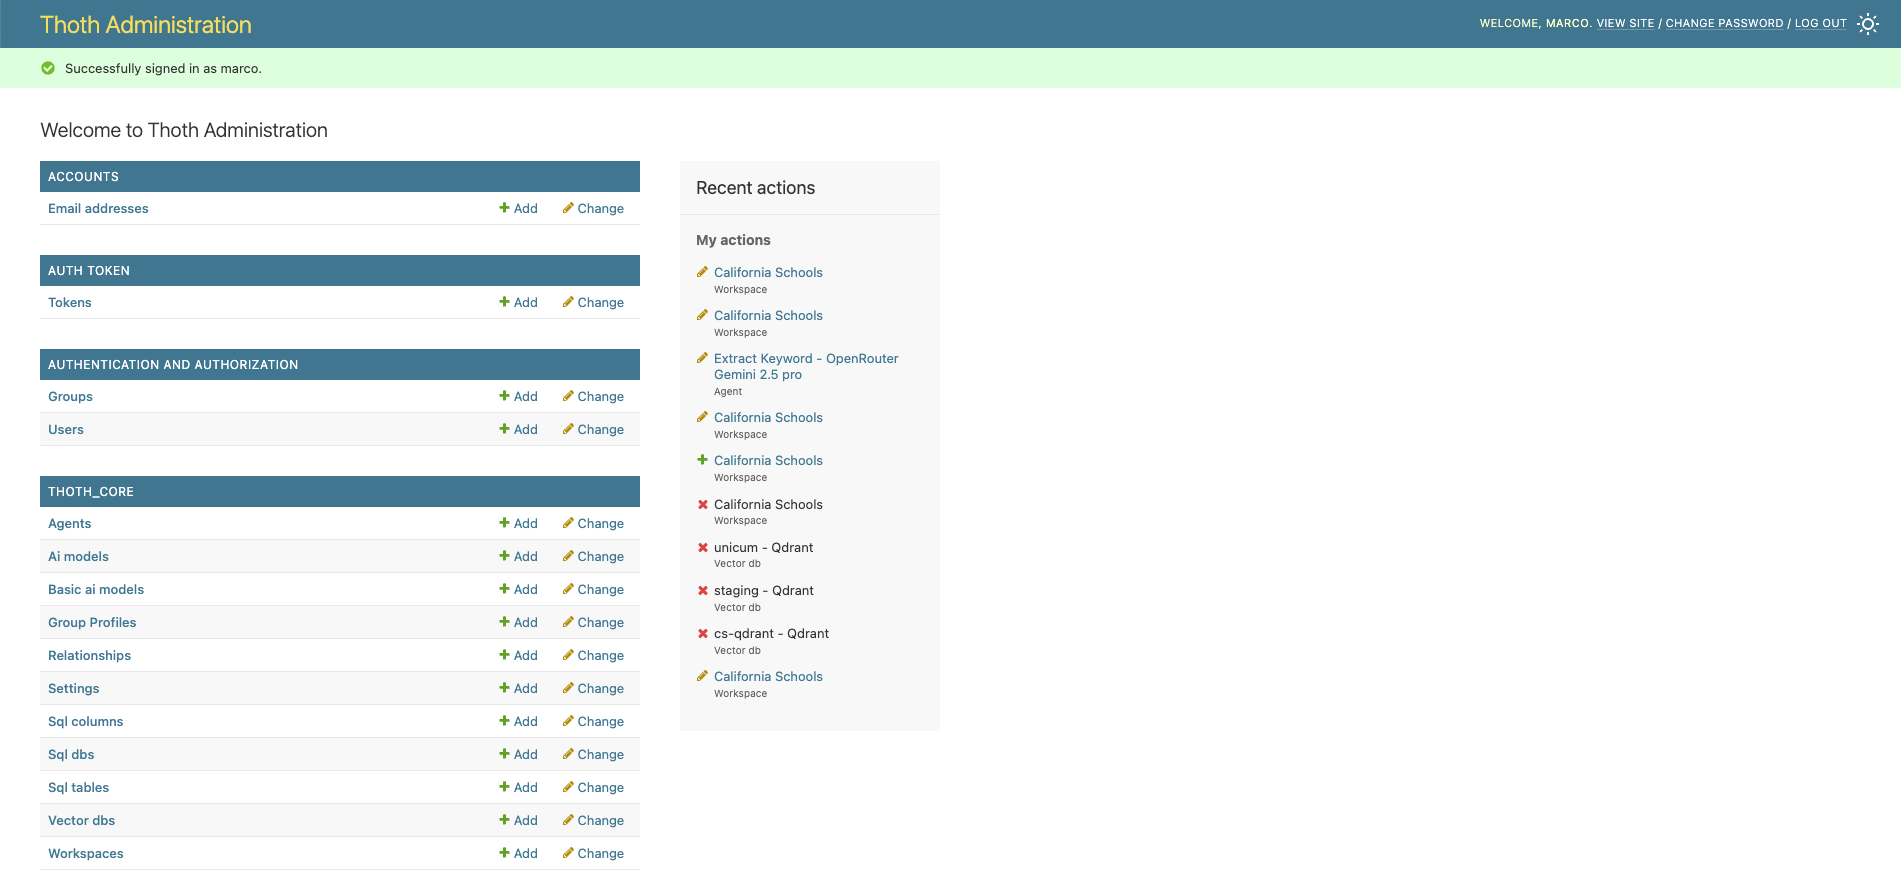
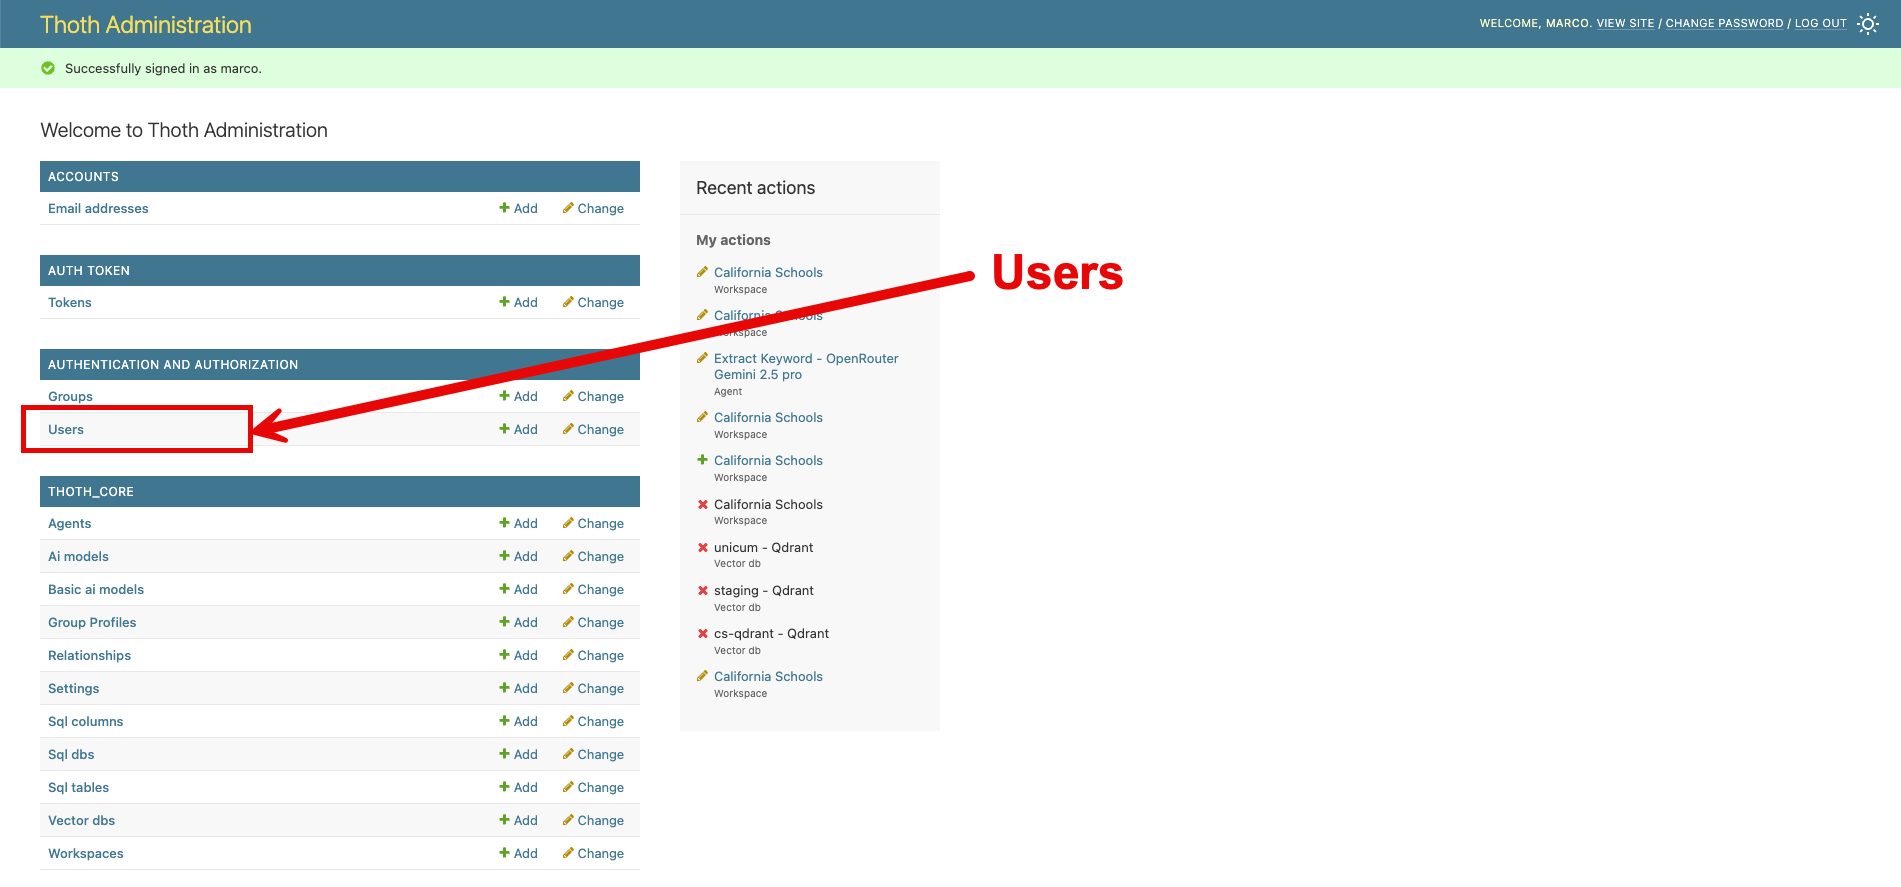
Add images and update pages for improved user manual clarity.

Changed region(s): [[0.0, 0.3348, 0.4655, 0.5175], [0.4655, 0.274, 0.5897, 0.3348]]

diff --git a/docs/1-install/1.4-quick_setup.md b/docs/1-install/1.4-quick_setup.md
@@ -1,7 +1,7 @@
 # Quick Setup
 
 Il **Quick Setup** serve a permettere all'utente di completare l'installazione in pochi minuti in modo da poter fare pratica
-con **ThothAI** prima di procedere ad un setup completo, con utenti e database reali.
+con **ThothAI** prima di procedere a un setup completo, con utenti e database reali.
 
 L'idea su cui si basa il Quick Start è di utilizzare l'utente `marco` per esercitarsi sul database `california_schools`, un database `Sqlite` che contiene dati aggregati sulle scuole della California, che è stato preconfigurato nel setup di default. 
 
@@ -12,11 +12,43 @@ una serie di Question, di Hints e di SQL propri di quel database che sono utiliz
 Ovviamente è necessario, come prerequisito per poter lavorare col setup standard, aver acquistato, anche per soli 5/10 Dollari, una API Key di OpenRouter, sufficienti per centinaia di interrogazioni. 
 
 Al posto di OpenRouter si possono utilizzare modelli in locale, ad esempio tramite Ollama, o provider diretti come OpenAI, Mistral o Anthropic.
+
 In questo caso è necessario modificare il setup degli Agents per utilizzare AiModel diversi da quelli impostati come default, che sono tutti collegati a OpenRouter.
 
 Le tre attività da fare per completare il setup prima di poter procedere a provare l'applicazione ThothAI sono le seguenti:
 
-## 1 - Preprocessing
+## 1 - Assegnazione password all'utente `marco`
+
+Gli utenti per il quick setup sono stati creati, ma non hanno password, per cui non ci si può autenticare con la loro identità. 
+
+
+Per prima cosa, quindi, dalla homepage del backend Thoth, andare nell'area amministrativa, selezionando `l'icona impostazioni` rappresentato dall'ingranaggio in alto a destra.
+
+![Thoth Home Page](../assets/setup/home_Thoth.png)
+
+
+Ci si ritrova nel contesto `admin`
+
+![Admin](../assets/setup/Administration.png)
+
+Selezionando il link Users si accede alla lista degli user:
+
+![UserList](../assets/setup/UserList.png)
+
+Selezionando lo user `marco` si accede alla form in cui si può fare il reset della password. Impostate la password che volete.
+Nel proseguo di questo testo si ipotizza che abbiate assegnata la password  `thoth_pwd`
+
+![UserList](../assets/setup/UserForm.png). 
+
+Nel caso non fosse già inizializzato, selezionare il checkbok `Superuser status`
+per assegnare all'utente `marco` i poteri necessari per gestire il backend di ThotAI.
+
+Una volta assegnata la password si può fare logout e rientrare con l'utente marco. L'utente superuser precedentemente 
+generato deve essere mantenuto nel database per avere una backdoor di accesso all'area amministrativa sempre disponibile.
+
+--------------------
+
+## 2 - Preprocessing
 Andare su [http://localhost:8040](http://localhost:8040) (porta 8000 se l'installazione è stata fatta in locale)
 
 ![Thoth Home Page](../assets/setup/HomeWithPreprocessingInEvidence.png)
@@ -33,7 +65,7 @@ Si vedrà in seguito se e come queste tre funzioni debbano essere utilizzata per
 
 È possibile verificare l'effetto di queste funzioni esaminando il contenuto del database vettoriale tramite le specifiche gestioni.
 
-### 1.1 - La gestione degli Hints
+### 2.1 - La gestione degli Hints
 Gli Hints sono suggerimenti, o "evidence", che chiariscono come interpretare determinati termini e come determinare l'informazione richiesta partendo dal database.
 Gli Hints vengono inseriti nei prompt di generazione e controllo del SQL per aiutare i modelli a comprendere la domanda e a mapparla rispetto allo schema.
 Il setup di default legge gli Hints relativi al database `california_schools` dal file `dev.json` e li salva nel database vettoriale durante il preprocessing.
@@ -41,7 +73,7 @@ Per ulteriori dettagli vedere [la specifica pagina del Reference Manual](../4-re
 
 ![Hints](../assets/setup/Hints.png)
 
-### 1.2 - La gestione delle Questions
+### 2.2 - La gestione delle Questions
 Le Questions sono l'associazione tra una domanda, un Hint e un 'Gold' SQL, cioè un SQL sicuramente in grado di rispondere alla domanda dato l'Hint.
 Una preselezione di Questions, scelte da ThothAI per similarità rispetto alla domanda posta, vengono inserite nei prompt di generazione e controllo del SQL come "few shots".
 Il setup di default legge le Questions relative al database `california_schools` dal file `dev.json` e le salva nel database vettoriale durante il preprocessing.
@@ -49,7 +81,7 @@ Per ulteriori dettagli vedere [la specifica pagina del Reference Manual](../4-re
 
 ![Questions](../assets/setup/Questions.png)
 
-### 1.3 - La gestione delle Columns
+### 2.3 - La gestione delle Columns
 Le Columns sono le descrizioni delle Columns presenti nel database. Sono raccolte nel database vettoriale perché, nella fase 
 di generazione dello "schema link', ThothAI usa la ricerca per similarità per pre-selezionare le Columns sulla base della 
 loro probabilità di essere parte del SQL generato.
@@ -58,7 +90,7 @@ Per ulteriori dettagli vedere [la specifica pagina del Reference Manual](../4-re
 
 ![Columns](../assets/setup/Columns.png)
 
-## 2 - Generazione tramite AI dello scope del database California Schools
+## 3 - Generazione tramite AI dello scope del database California Schools
 Lo `scope` del database è una descrizione dei contenuti del database che permette a ThothAI, tramite l'uso dell'AI', di capire se la domanda posta è pertinente rispetto al DB interrogato.
 In ThothAI è disponibile una funzione che permette di usare l'AI per determinare lo `scope di un database.
 

diff --git a/docs/1-install/1.2-docker.md b/docs/1-install/1.2-docker.md
@@ -82,7 +82,7 @@ docker-compose up --build -d
 ## 3 - Verifica del funzionamento dell'applicazione sotto Docker
 
 ### 3.1 - Verifica del backend
-Per verificare il backend è possibile aprire [http://localhost:8040](http://localhost:8040) e fare login con l'utente `marco` e password `thoth_pwd`
+Per verificare il backend è possibile aprire [http://localhost:8040](http://localhost:8040) e fare login con l'utente superuser appena creato.
 
 Ci si ritroverà di fronte a questa form:
 
@@ -92,6 +92,7 @@ Ci si ritroverà di fronte a questa form:
 Cliccando sull'icona in alto a destra, evidenziata col contorno in rosso, è possibile accedere all'area amministrativa:
 
 ![Thoth Administration](../assets/setup/Administration-back.png)
+
 
 Cliccando sul link "view site" si torna alla Home Page del backend
 
